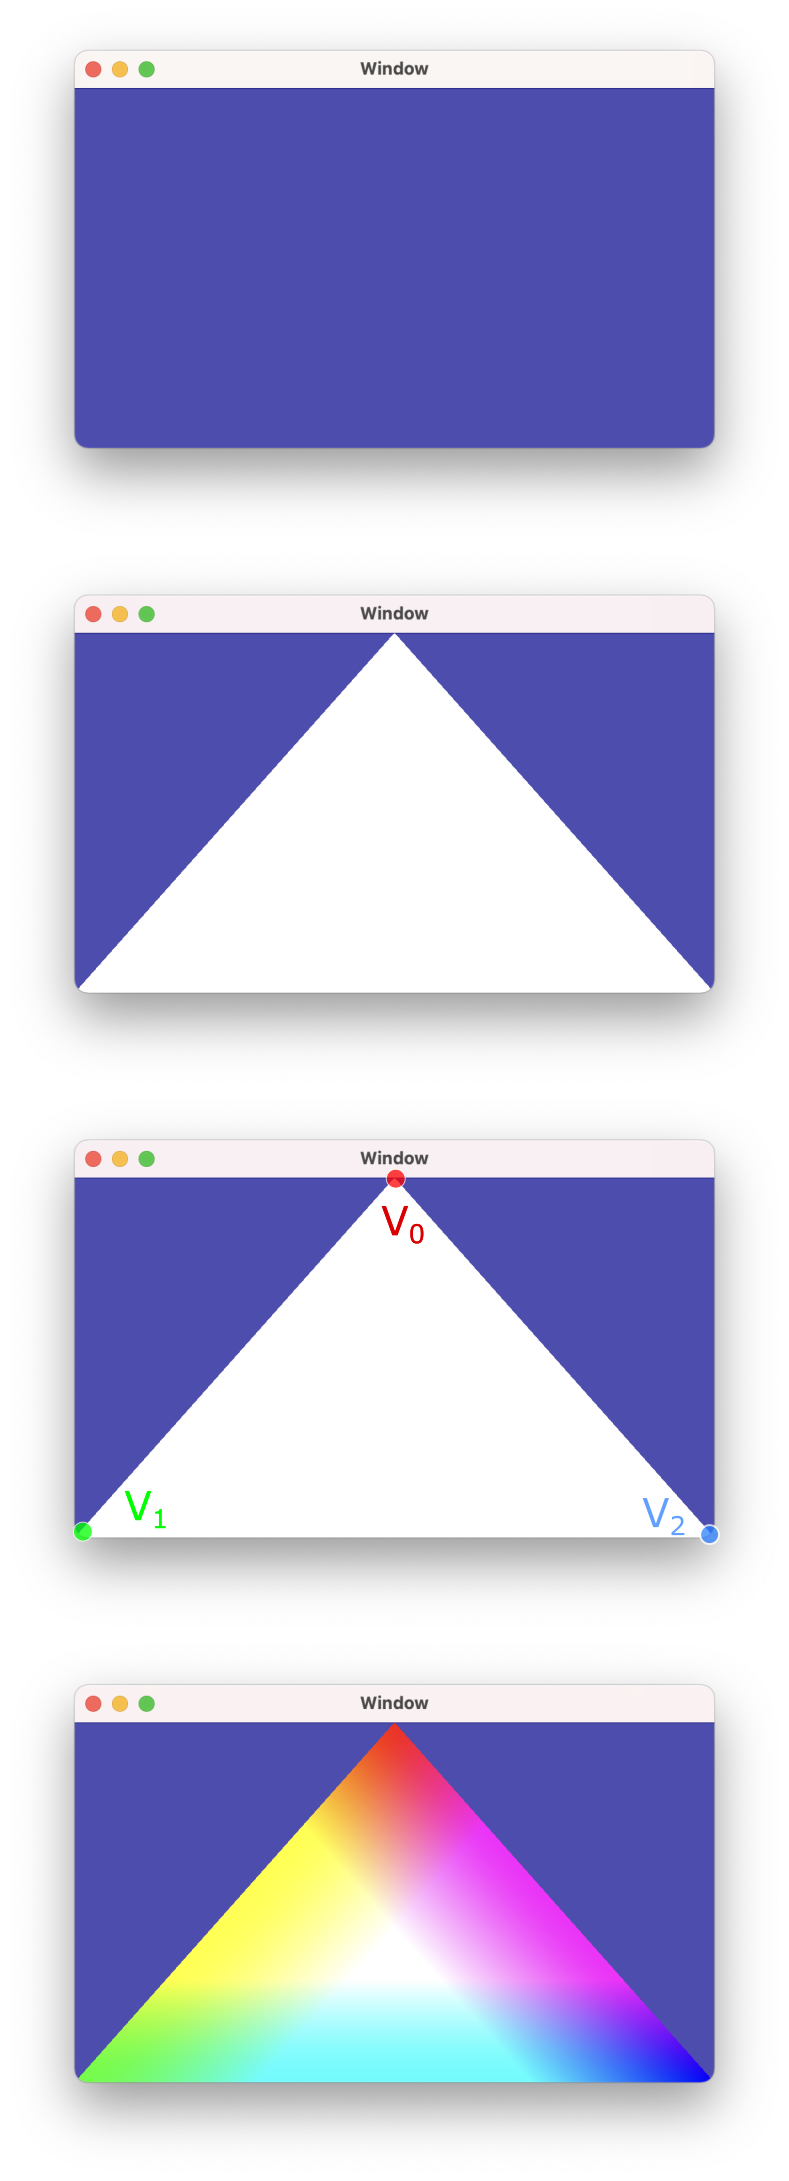
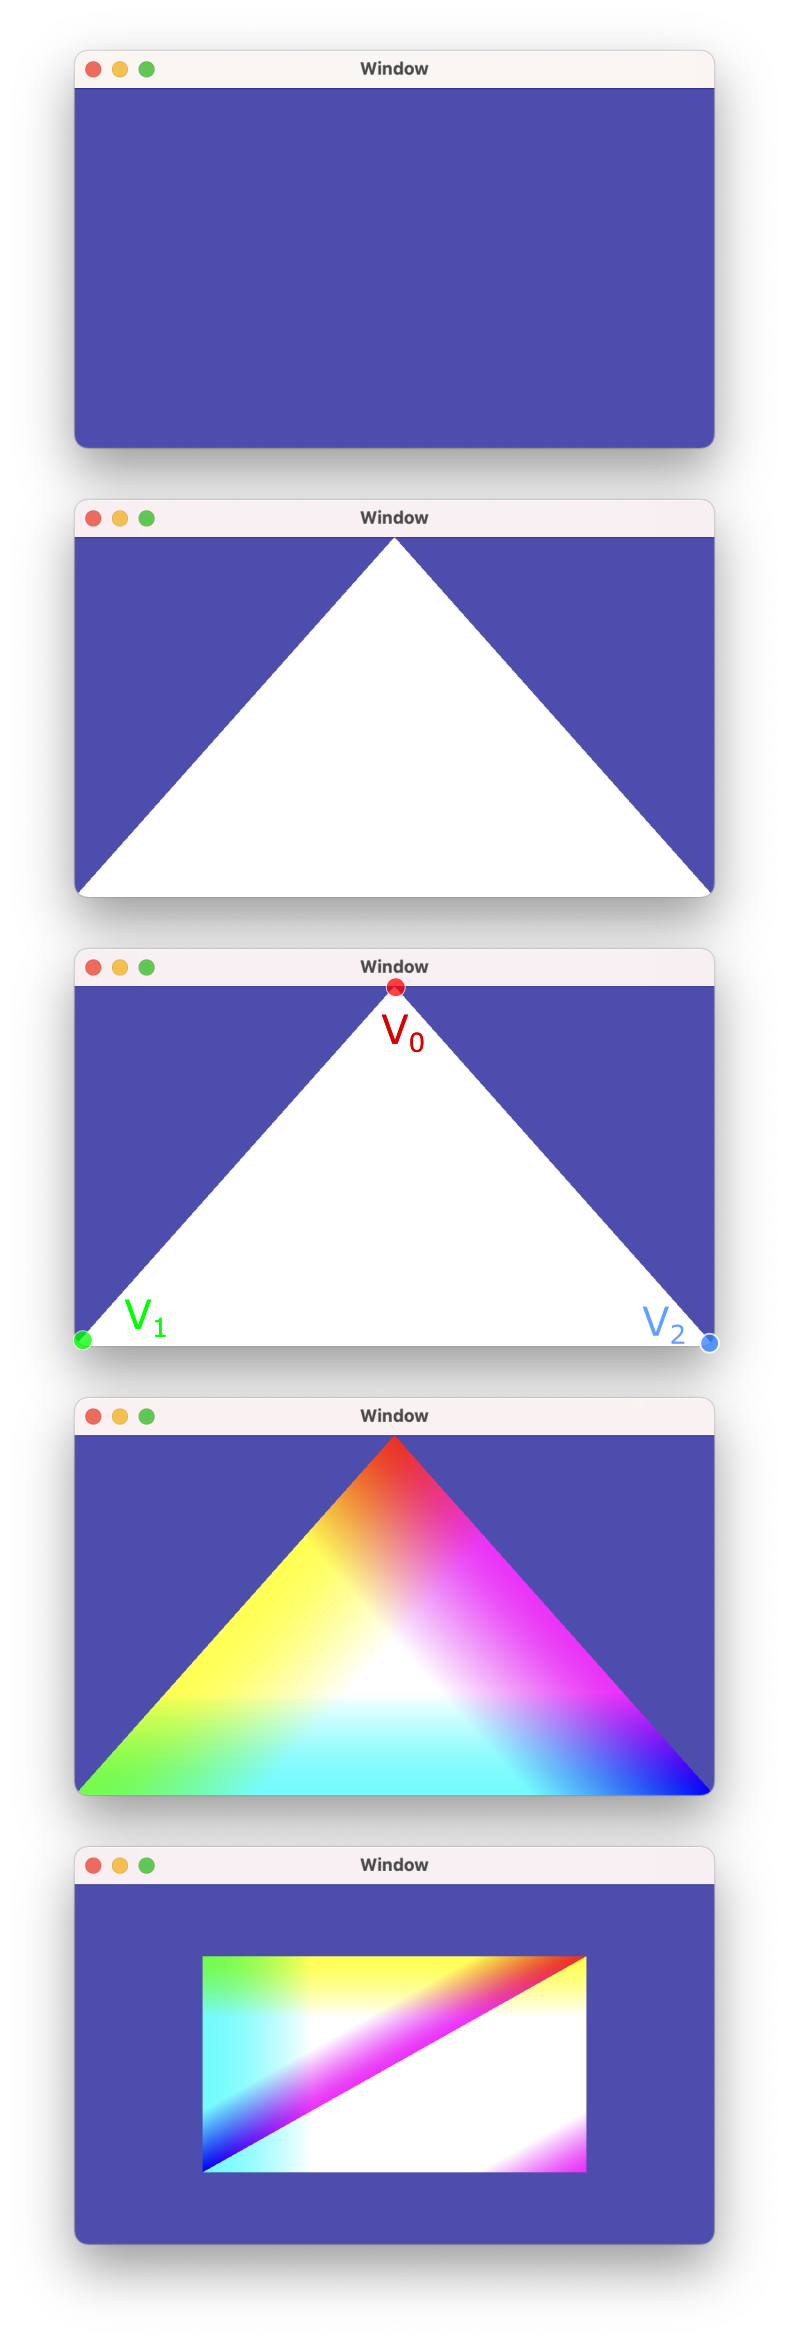
2 Triangles forming square basic approach

diff --git a/multipleObjects/DemoResourceInitializer.swift b/multipleObjects/DemoResourceInitializer.swift
@@ -1,7 +1,7 @@
 import MetalKit
 
 public enum DemoType {
-  case basic, basicTriangle, basicTriangleWithColor
+  case basic, basicTriangle, basicTriangleWithColor, squareWithTwoTrianglesBasic
 }
 
 class DemoResourceInitializer {
@@ -10,13 +10,27 @@ class DemoResourceInitializer {
   var renderPipelineState: MTLRenderPipelineState! = nil
   var verticiesCount = 0
   var vertexBuffer:MTLBuffer! = nil
-  var demo:DemoType
+  var demo:DemoType = .basic
   
   init(device: MTLDevice, demoType: DemoType = .basic) {
     demo = demoType
     setupCommandQueue(device: device)
     setupRenderPipelineState(device: device)
     setupVerticies(device: device)
+  }
+  
+  func setupVertexDescriptor() -> MTLVertexDescriptor {
+    let vertexDescriptor = MTLVertexDescriptor()
+    vertexDescriptor.attributes[0].bufferIndex = 0
+    vertexDescriptor.attributes[0].format = .float3
+    vertexDescriptor.attributes[0].offset = 0
+    
+    vertexDescriptor.attributes[1].bufferIndex = 0
+    vertexDescriptor.attributes[1].format = .float4
+    vertexDescriptor.attributes[1].offset = MemoryLayout<SIMD3<Float>>.size
+    
+    vertexDescriptor.layouts[0].stride = MemoryLayout<Vertex>.stride
+    return vertexDescriptor
   }
   
   fileprivate func setupCommandQueue(device: MTLDevice) {
@@ -37,6 +51,10 @@ class DemoResourceInitializer {
         renderPipelineDescriptor = setupRenderDescriptor(device:device , vFunc: "basic_vertex_triangle_with_color_function", fFunc: "basic_fragment_triangle_with_color_function")
         let vertexDescriptor = setupVertexDescriptor()
         renderPipelineDescriptor.vertexDescriptor = vertexDescriptor
+      } else if demo == .squareWithTwoTrianglesBasic {
+        renderPipelineDescriptor = setupRenderDescriptor(device:device , vFunc: "basic_vertex_triangle_with_color_function", fFunc: "basic_fragment_triangle_with_color_function")
+        let vertexDescriptor = setupVertexDescriptor()
+        renderPipelineDescriptor.vertexDescriptor = vertexDescriptor
       }
       
     }
@@ -50,28 +68,41 @@ class DemoResourceInitializer {
   
   func setupVerticies(device:MTLDevice) {
     /// Basic approach
-    let size:Float = 1
-    if demo != .basicTriangleWithColor {
+    let size:Float = 0.6
+    if demo == .basic || demo == .basicTriangle {
       let verticies:[Vertex] = [
         Vertex(position: SIMD3<Float>(0,size,0)), // v0
         Vertex(position: SIMD3<Float>(-size,-size,0)), // v1
         Vertex(position: SIMD3<Float>(size,-size,0)), // v2
       ]
       verticiesCount = verticies.count
-      vertexBuffer = device.makeBuffer(bytes: verticies, length: MemoryLayout<Vertex>.stride*verticies.count, options: [])
-    } else {
+      vertexBuffer = device.makeBuffer(bytes: verticies, length: MemoryLayout<Vertex>.stride*verticiesCount, options: [])
+    } else if demo == .basicTriangleWithColor {
       let verticies:[VertexWithColor] = [
         VertexWithColor(position: SIMD3<Float>(0,size,0), color:SIMD4<Float>(1,0,0,1)), // v0
-        VertexWithColor(position: SIMD3<Float>(-size,-size,0), color:  SIMD4<Float>(0,1,0,1)), // v1
-        VertexWithColor(position: SIMD3<Float>(size,-size,0), color: SIMD4<Float>(0,0,1,1)), // v2
+        VertexWithColor(position: SIMD3<Float>(-size,-size,0), color:SIMD4<Float>(0,1,0,1)), // v1
+        VertexWithColor(position: SIMD3<Float>(size,-size,0), color:SIMD4<Float>(0,0,1,1)), // v2
       ]
       verticiesCount = verticies.count
-      vertexBuffer = device.makeBuffer(bytes: verticies, length: MemoryLayout<VertexWithColor>.stride*verticies.count, options: [])
+      vertexBuffer = device.makeBuffer(bytes: verticies, length: MemoryLayout<VertexWithColor>.stride*verticiesCount, options: [])
+    } else if demo == .squareWithTwoTrianglesBasic {
+      print("KSS I'm trying square")
+      let verticies:[VertexWithColor] = [
+        VertexWithColor(position: SIMD3<Float>(size,size,0), color:SIMD4<Float>(1,0,0,1)), // v0
+        VertexWithColor(position: SIMD3<Float>(-size,size,0), color:SIMD4<Float>(0,1,0,1)), // v1
+        VertexWithColor(position: SIMD3<Float>(-size,-size,0), color:SIMD4<Float>(0,0,1,1)), // v2
+        
+        VertexWithColor(position: SIMD3<Float>(size,size,0), color:SIMD4<Float>(1,1,0,1)), // v0
+        VertexWithColor(position: SIMD3<Float>(-size,-size,0), color:SIMD4<Float>(0,1,1,1)), // v2
+        VertexWithColor(position: SIMD3<Float>(size,-size,0), color:SIMD4<Float>(1,0,1,1)), // v3
+      ]
+      verticiesCount = verticies.count
+      vertexBuffer = device.makeBuffer(bytes: verticies, length: MemoryLayout<VertexWithColor>.stride*verticiesCount, options: [])
     }
     
   }
   
-  fileprivate func setupRenderDescriptor(device: MTLDevice, vFunc vf:String, fFunc ff:String) -> MTLRenderPipelineDescriptor  {
+   func setupRenderDescriptor(device: MTLDevice, vFunc vf:String, fFunc ff:String) -> MTLRenderPipelineDescriptor  {
     
     let library = device.makeDefaultLibrary()
     let vertexFunction = library?.makeFunction(name: vf)
@@ -84,20 +115,6 @@ class DemoResourceInitializer {
     return renderPipelineDescriptor
   }
   
-  func setupVertexDescriptor() -> MTLVertexDescriptor {
-    let vertexDescriptor = MTLVertexDescriptor()
-    vertexDescriptor.attributes[0].bufferIndex = 0
-    vertexDescriptor.attributes[0].format = .float3
-    vertexDescriptor.attributes[0].offset = 0
-    
-    vertexDescriptor.attributes[1].bufferIndex = 0
-    vertexDescriptor.attributes[1].format = .float4
-    vertexDescriptor.attributes[1].offset = MemoryLayout<SIMD3<Float>>.size
-    
-    vertexDescriptor.layouts[0].stride = MemoryLayout<Vertex>.stride
-    return vertexDescriptor
-  }
-  
   func setupDrawPremitives(in view: MTKView) {
     
     guard let drawable = view.currentDrawable, let renderPassDescriptor  = view.currentRenderPassDescriptor else { return }
@@ -106,6 +123,7 @@ class DemoResourceInitializer {
     let commandEncoder = commandBuffer?.makeRenderCommandEncoder(descriptor: renderPassDescriptor)
     commandEncoder?.setRenderPipelineState(renderPipelineState)
     commandEncoder?.setVertexBuffer(vertexBuffer, offset: 0, index: 0)
+    print("KSS Verticies count \(verticiesCount)")
     if demo != .basic {
       commandEncoder?.drawPrimitives(type: .triangle, vertexStart: 0, vertexCount: verticiesCount)
     }

diff --git a/multipleObjects/DemoRenderrer.swift b/multipleObjects/DemoRenderrer.swift
@@ -6,7 +6,7 @@ class DemoRenderrer: NSObject {
   
   init(device: MTLDevice) {
     super.init()
-    self.resourceInitializer = DemoResourceInitializer(device: device, demoType: DemoType.basicTriangleWithColor)
+    self.resourceInitializer = DemoResourceInitializer(device: device, demoType: DemoType.squareWithTwoTrianglesBasic)
   }
 }
 extension DemoRenderrer: MTKViewDelegate {
